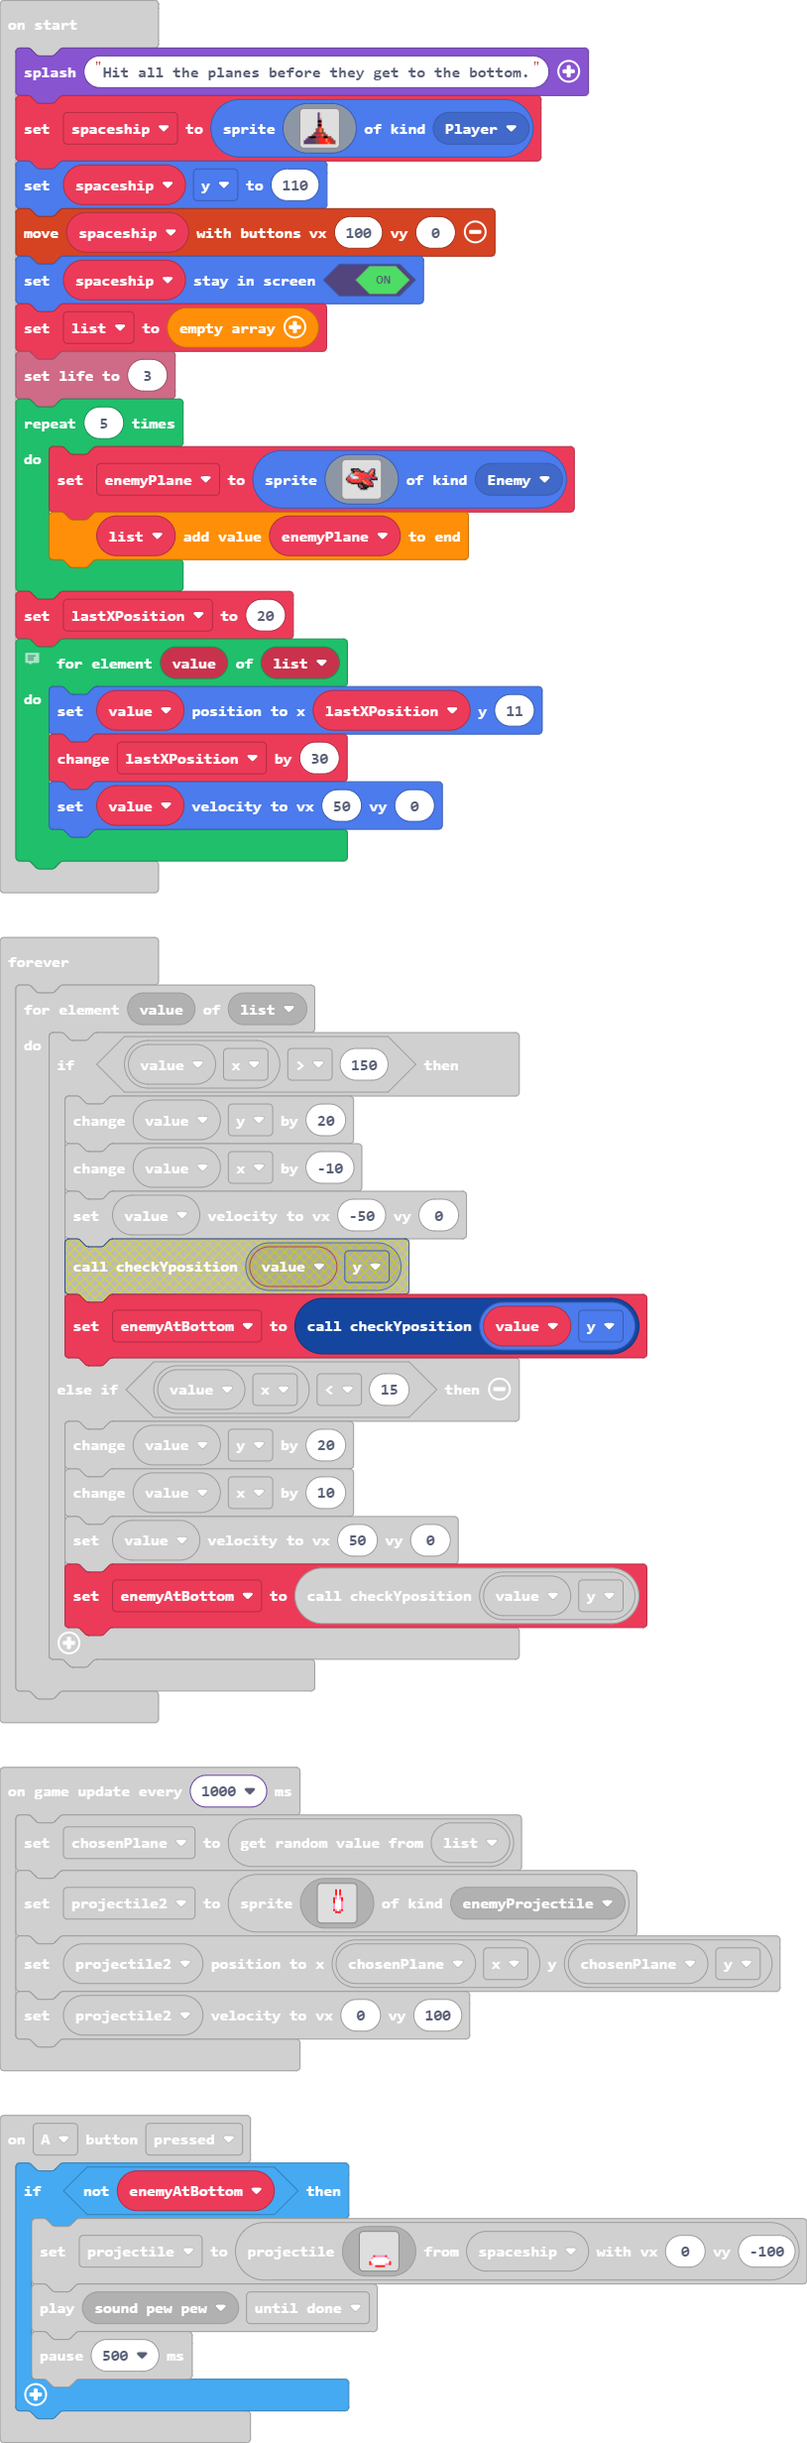
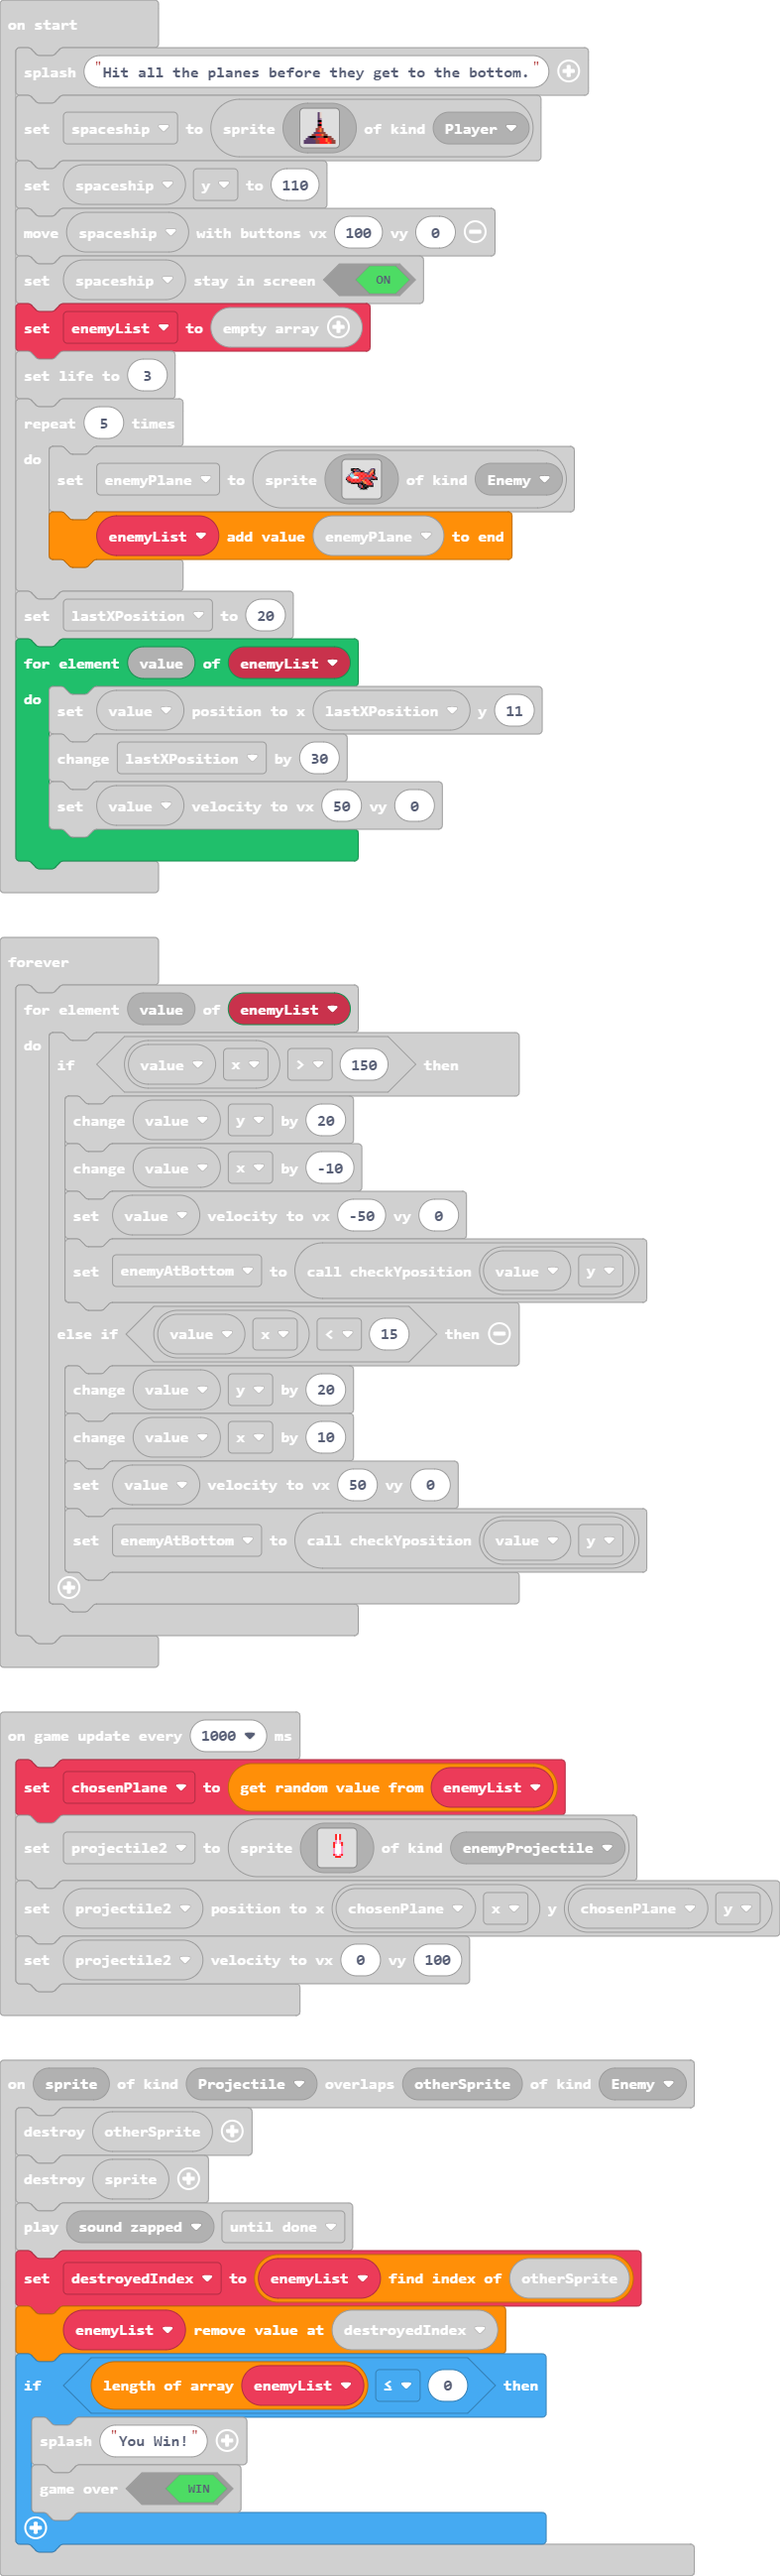
Update main.blocks, main.ts

diff --git a/main.ts b/main.ts
@@ -41,9 +41,9 @@ sprites.onOverlap(SpriteKind.Projectile, SpriteKind.Enemy, function (sprite, oth
     sprites.destroy(otherSprite)
     sprites.destroy(sprite)
     music.play(music.melodyPlayable(music.zapped), music.PlaybackMode.UntilDone)
-    destroyedIndex = list.indexOf(otherSprite)
-    list.removeAt(destroyedIndex)
-    if (list.length <= 0) {
+    destroyedIndex = enemyList.indexOf(otherSprite)
+    enemyList.removeAt(destroyedIndex)
+    if (enemyList.length <= 0) {
         game.splash("You Win!")
         game.gameOver(true)
     }
@@ -57,7 +57,7 @@ let destroyedIndex = 0
 let projectile: Sprite = null
 let enemyAtBottom = false
 let enemyPlane: Sprite = null
-let list: Sprite[] = []
+let enemyList: Sprite[] = []
 let spaceship: Sprite = null
 game.splash("Hit all the planes before they get to the bottom.")
 spaceship = sprites.create(img`
@@ -81,7 +81,7 @@ spaceship = sprites.create(img`
 spaceship.y = 110
 controller.moveSprite(spaceship, 100, 0)
 spaceship.setStayInScreen(true)
-list = []
+enemyList = []
 info.setLife(3)
 for (let index = 0; index < 5; index++) {
     enemyPlane = sprites.create(img`
@@ -102,17 +102,16 @@ for (let index = 0; index < 5; index++) {
         ..........fc2ffff.......
         ...........fffff........
         `, SpriteKind.Enemy)
-    list.push(enemyPlane)
+    enemyList.push(enemyPlane)
 }
 let lastXPosition = 20
-// I need to space the planes away from each other further 
-for (let value of list) {
+for (let value of enemyList) {
     value.setPosition(lastXPosition, 11)
     lastXPosition += 30
     value.setVelocity(50, 0)
 }
 game.onUpdateInterval(1000, function () {
-    chosenPlane = list._pickRandom()
+    chosenPlane = enemyList._pickRandom()
     projectile2 = sprites.create(img`
         . . . . . . . . . . . . . . . . 
         . . . . . . . 2 1 2 . . . . . . 
@@ -135,7 +134,7 @@ game.onUpdateInterval(1000, function () {
     projectile2.setVelocity(0, 100)
 })
 forever(function () {
-    for (let value of list) {
+    for (let value of enemyList) {
         if (value.x > 150) {
             value.y += 20
             value.x += -10
